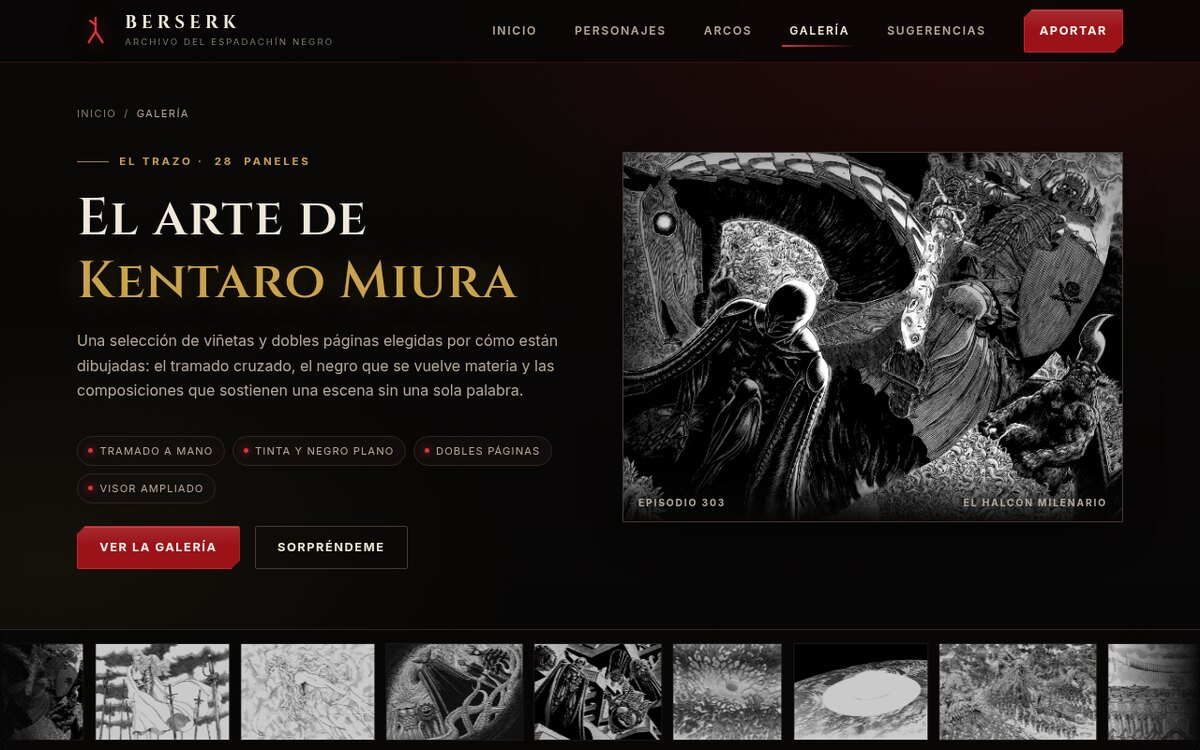
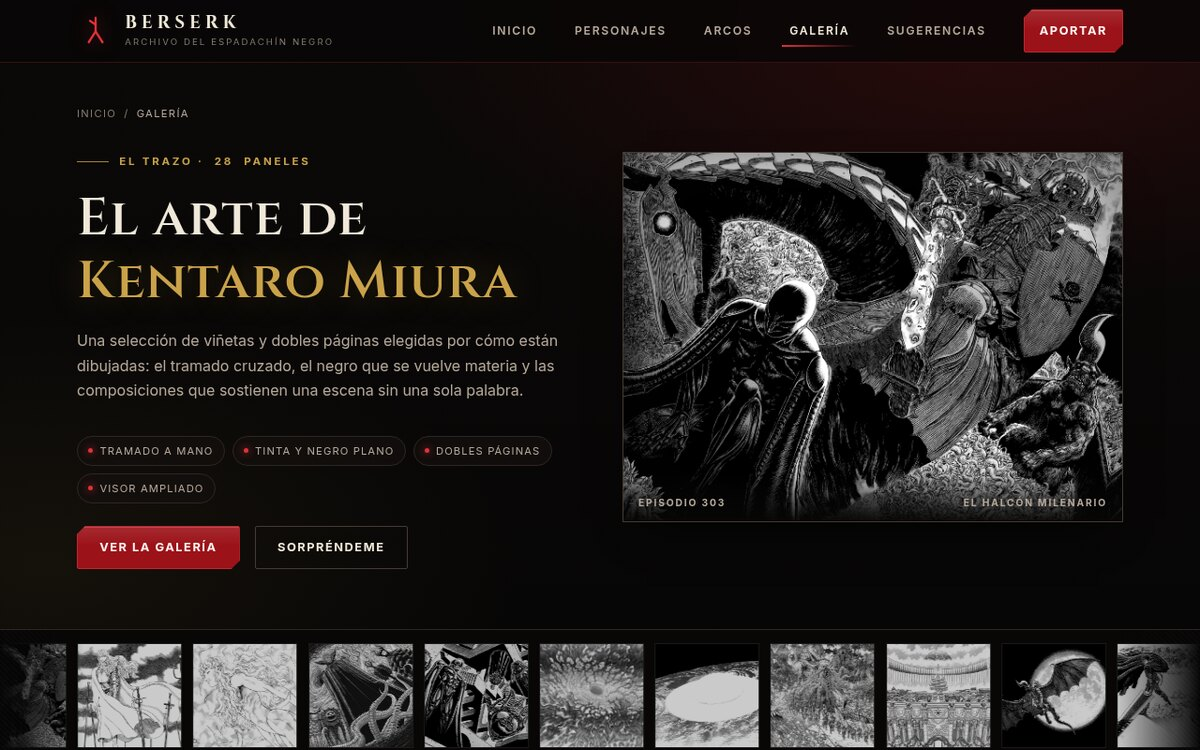
Unificar la galería en tarjetas del mismo tamaño
- Cambia la mampostería por una rejilla de tarjetas iguales (4 → 1
  columnas) con marco 4:3, margen interior y el panel completo
- Añade pastillas pequeñas de episodio y arco bajo cada lámina, al
  estilo de las insignias del catálogo de personajes
- Iguala las miniaturas de la cinta y el avance de portada a cuadros
  uniformes con recorte centrado
- Actualiza el README (rejilla uniforme, capturas nuevas)

Changed region(s): [[0.0, 0.8587, 1.0, 1.0]]

diff --git a/assets/css/estilos.css b/assets/css/estilos.css
@@ -1207,8 +1207,9 @@ strong { color: #fff8ec; }
 .emi-cinta:focus-within .emi-cinta__pista { animation-play-state: paused; }
 
 .emi-cinta__pista img {
-  height: 104px;
-  width: auto;
+  width: 112px;
+  height: 112px;
+  object-fit: cover;
   margin-right: .7rem;
   border: 1px solid var(--emi-borde);
   filter: grayscale(1) brightness(.78) contrast(1.05);
@@ -1272,28 +1273,41 @@ strong { color: #fff8ec; }
   opacity: .7;
 }
 
-/* Rejilla tipo mampostería: cada lámina conserva su proporción. */
-.emi-rejilla-paneles { column-count: 4; column-gap: 1.1rem; }
+/* Rejilla uniforme: todas las láminas miden lo mismo, con el mismo margen. */
+.emi-rejilla-paneles {
+  display: grid;
+  grid-template-columns: repeat(4, minmax(0, 1fr));
+  gap: 1.25rem;
+}
 
 .emi-lamina {
   position: relative;
-  break-inside: avoid;
-  margin: 0 0 1.1rem;
+  display: flex;
+  height: 100%;
   border: 1px solid var(--emi-borde);
-  background: #0b0908;
+  border-radius: var(--emi-radio);
+  background: linear-gradient(165deg, var(--emi-superficie), #0a0807);
+  overflow: hidden;
+  transition: transform var(--emi-transicion), border-color var(--emi-transicion),
+              box-shadow var(--emi-transicion), opacity 520ms ease;
 }
 
-.js .emi-lamina {
-  opacity: 0;
-  transform: translateY(16px);
-  transition: opacity 520ms ease, transform 520ms ease;
+.emi-lamina:hover,
+.emi-lamina:focus-within {
+  transform: translateY(-4px);
+  border-color: rgba(224, 49, 58, .55);
+  box-shadow: var(--emi-sombra);
 }
+
+.js .emi-lamina { opacity: 0; transform: translateY(16px); }
 
 .js .emi-lamina.is-visible { opacity: 1; transform: none; }
 
 .emi-lamina__boton {
-  display: block;
+  display: flex;
+  flex-direction: column;
   width: 100%;
+  height: 100%;
   padding: 0;
   border: 0;
   background: none;
@@ -1302,12 +1316,21 @@ strong { color: #fff8ec; }
   cursor: zoom-in;
 }
 
-.emi-lamina__media { position: relative; overflow: hidden; }
+/* Marco fijo 4:3 con margen interior: el panel entra completo, sin recortes. */
+.emi-lamina__media {
+  position: relative;
+  aspect-ratio: 4 / 3;
+  padding: .45rem;
+  overflow: hidden;
+  background: #080706;
+}
 
 .emi-lamina__media img {
   display: block;
   width: 100%;
-  height: auto;
+  height: 100%;
+  object-fit: contain;
+  object-position: center;
   transition: transform 700ms cubic-bezier(.16, .84, .28, 1), filter 400ms ease;
 }
 
@@ -1341,27 +1364,53 @@ strong { color: #fff8ec; }
 }
 
 .emi-lamina__cuerpo {
-  padding: .7rem .85rem .85rem;
+  display: flex;
+  flex-direction: column;
+  flex: 1;
+  gap: .55rem;
+  padding: .8rem .9rem 1rem;
   border-top: 1px solid var(--emi-borde);
 }
 
 .emi-lamina__meta {
   display: flex;
-  justify-content: space-between;
-  gap: .5rem;
-  font-size: .6rem;
+  flex-wrap: wrap;
+  gap: .3rem;
+  margin: 0;
+}
+
+/* Pastillas pequeñas: episodio y arco, como las insignias del catálogo. */
+.emi-pastilla {
+  display: inline-flex;
+  align-items: center;
+  padding: .2rem .48rem;
+  border: 1px solid var(--emi-borde-claro);
+  border-radius: 999px;
+  background: rgba(7, 6, 6, .55);
+  font-size: .58rem;
   font-weight: 700;
-  letter-spacing: .16em;
+  letter-spacing: .1em;
   text-transform: uppercase;
-  color: var(--emi-ceniza-oscura);
+  color: var(--emi-ceniza);
+}
+
+.emi-pastilla--arco {
+  border-color: rgba(201, 162, 74, .45);
+  color: var(--emi-oro);
 }
 
 .emi-lamina__titulo {
-  margin: .35rem 0 0;
+  margin: 0;
   font-family: var(--emi-display);
-  font-size: 1rem;
+  font-size: 1.02rem;
   line-height: 1.25;
   color: var(--emi-hueso);
+  /* Dos líneas siempre: todas las tarjetas quedan a la misma altura. */
+  display: -webkit-box;
+  -webkit-line-clamp: 2;
+  -webkit-box-orient: vertical;
+  overflow: hidden;
+  min-height: 2.5em;
 }
 
 .emi-lamina__boton:focus-visible { outline: 2px solid var(--emi-oro); outline-offset: -2px; }
@@ -1396,6 +1445,7 @@ strong { color: #fff8ec; }
 .emi-avance {
   position: relative;
   display: block;
+  aspect-ratio: 4 / 3;
   overflow: hidden;
   border: 1px solid var(--emi-borde);
   background: #0b0908;
@@ -1404,7 +1454,8 @@ strong { color: #fff8ec; }
 .emi-avance img {
   display: block;
   width: 100%;
-  height: auto;
+  height: 100%;
+  object-fit: cover;
   filter: grayscale(1) contrast(1.05);
   transition: transform 650ms cubic-bezier(.16, .84, .28, 1), filter 400ms ease;
 }
@@ -1497,17 +1548,17 @@ strong { color: #fff8ec; }
 
 /* Adaptación de la galería. */
 @media (max-width: 1199.98px) {
-  .emi-rejilla-paneles { column-count: 3; }
+  .emi-rejilla-paneles { grid-template-columns: repeat(3, minmax(0, 1fr)); }
 }
 
 @media (max-width: 767.98px) {
-  .emi-rejilla-paneles { column-count: 2; }
-  .emi-cinta__pista img { height: 82px; }
+  .emi-rejilla-paneles { grid-template-columns: repeat(2, minmax(0, 1fr)); }
+  .emi-cinta__pista img { width: 88px; height: 88px; }
   .emi-galeria-hero__lamina { margin-top: .5rem; }
 }
 
 @media (max-width: 479.98px) {
-  .emi-rejilla-paneles { column-count: 1; }
+  .emi-rejilla-paneles { grid-template-columns: 1fr; }
   .emi-toolbar-galeria { align-items: stretch; }
 }
 

diff --git a/assets/js/galeria.js b/assets/js/galeria.js
@@ -1,5 +1,5 @@
 /* ==========================================================================
-   GALERÍA DE PANELES — filtros, mampostería, visor y enlaces directos
+   GALERÍA DE PANELES — filtros, rejilla uniforme, visor y enlaces directos
    --------------------------------------------------------------------------
    Todo el contenido sale de assets/js/paneles.js. Este archivo solo se
    encarga de pintar la rejilla, mover el visor y respetar reduce-motion.
@@ -72,7 +72,7 @@
     var imagen = document.createElement("img");
     imagen.src = panel.archivo + "-min.webp";
     imagen.srcset = panel.archivo + "-min.webp 520w, " + panel.archivo + ".webp 1100w";
-    imagen.sizes = "(min-width: 1200px) 23vw, (min-width: 768px) 31vw, 46vw";
+    imagen.sizes = "(min-width: 1200px) 23vw, (min-width: 768px) 31vw, (min-width: 480px) 46vw, 92vw";
     imagen.width = panel.ancho;
     imagen.height = panel.alto;
     imagen.alt = panel.alt;
@@ -93,9 +93,11 @@
     meta.className = "emi-lamina__meta";
 
     var episodio = document.createElement("span");
+    episodio.className = "emi-pastilla";
     episodio.textContent = etiquetaEpisodio(panel);
 
     var arco = document.createElement("span");
+    arco.className = "emi-pastilla emi-pastilla--arco";
     arco.textContent = nombreArco(panel.arco);
 
     meta.append(episodio, arco);
@@ -218,10 +220,10 @@
   function pintarCinta() {
     if (!cinta) return;
 
+    /* Miniaturas cuadradas: la cinta queda regular pase lo que pase. */
     var piezas = datos.paneles.slice(0, 14).map(function (panel) {
-      var alto = Math.round((520 * panel.alto) / panel.ancho);
-      return '<img src="' + panel.archivo + '-min.webp" alt="" width="520" height="' +
-        alto + '" loading="lazy" decoding="async">';
+      return '<img src="' + panel.archivo + '-min.webp" alt="" width="160" height="160"' +
+        ' loading="lazy" decoding="async">';
     }).join("");
 
     /* Dos copias: la animación desplaza exactamente la mitad de la pista. */

diff --git a/README.md b/README.md
@@ -179,7 +179,7 @@ en el carrusel, en el bloque de fuentes externas y en el pie de las cinco págin
 ### 🖼 Galería de 28 paneles
 
 Una página aparte dedicada solo al dibujo: viñetas y dobles páginas de Kentaro Miura con filtros por
-arco, mampostería, visor ampliado y enlaces directos. Se detalla más abajo, en
+arco, rejilla de tarjetas iguales, visor ampliado y enlaces directos. Se detalla más abajo, en
 [Galería de paneles](#galeria).
 
 ---
@@ -196,7 +196,7 @@ episodio, su arco y un comentario breve sobre cómo está resuelta.
 | Portada de la galería | Rejilla filtrada por arcos |
 | :--: | :--: |
 | <img src="assets/readme/preview-galeria.jpg" alt="Portada de la galería con una doble página de Femto y el Caballero Calavera" width="100%"/> | <img src="assets/readme/preview-rejilla.jpg" alt="Rejilla de paneles en cuatro columnas con filtros por arco" width="100%"/> |
-| **Lámina de apertura** con zoom lento y cinta de miniaturas | **Mampostería de 4 → 1 columnas** con filtros y contador en vivo |
+| **Lámina de apertura** con zoom lento y cinta de miniaturas | **Tarjetas iguales de 4 → 1 columnas** con filtros y contador en vivo |
 
 <img src="assets/readme/preview-visor.jpg" alt="Panel abierto en el visor ampliado con su descripción y el enlace a la fuente" width="92%"/>
 
@@ -211,7 +211,7 @@ enlace al archivo original de la wiki.
 |---|---|
 | 🗃 **Datos** | `assets/js/paneles.js` guarda los 28 paneles: id, título, episodio, arco, medidas, texto alternativo, comentario y fuente |
 | 🏷 **Filtros** | Un botón por arco con su recuento; «Todos» vuelve a la colección completa y el estado vacío ofrece limpiar el filtro |
-| 🧱 **Mampostería** | `column-count` de 4 a 1 columnas según el ancho; cada lámina conserva su proporción real, sin recortes |
+| 🧱 **Rejilla uniforme** | `grid` de 4 a 1 columnas; todas las tarjetas miden lo mismo (marco 4:3 con margen interior) y el panel entra completo, sin recortes |
 | 🔍 **Visor** | Modal de Bootstrap con la imagen a tamaño completo, anterior y siguiente, contador `n / 28` y enlace al archivo de origen |
 | ⌨ **Teclado** | `←` y `→` cambian de panel con el visor abierto; `Esc` lo cierra; el foco queda atrapado en el modal |
 | 🔗 **Enlace directo** | `galeria.html?panel=eclipse` abre esa lámina al cargar; al cerrar, la URL se limpia sola |
@@ -334,7 +334,7 @@ y el tema oscuro nativo con `data-bs-theme="dark"`.
 | Capa | Tecnología | Detalle |
 | :-- | :-- | :-- |
 | Estructura | **HTML5 semántico** | `main`, `section`, `article`, `nav`, `footer`, encabezados sin saltos |
-| Estilos | **CSS3** | 18 bloques comentados, variables `--emi-*`, `clamp()`, `aspect-ratio`, `column-count`, `prefers-reduced-motion` |
+| Estilos | **CSS3** | 18 bloques comentados, variables `--emi-*`, `clamp()`, `aspect-ratio`, `grid`, `prefers-reduced-motion` |
 | Interfaz | **Bootstrap 5.3.3** | CSS y bundle JS vendorizados en `assets/vendor/` |
 | Lógica | **JavaScript ES6** | Siete módulos IIFE, sin transpilación ni bundler |
 | Datos | **`datos.js` + `paneles.js`** | `window.BERSERK` con personajes, facciones, estados y arcos; `window.PANELES` con la galería |
@@ -367,7 +367,7 @@ y el tema oscuro nativo con `data-bs-theme="dark"`.
 │   │   ├── catalogo.js           Filtros, tarjetas, paginación, ficha y panel
 │   │   ├── arcos.js              Modal de arcos
 │   │   ├── paneles.js            Los 28 paneles de la galería (fuente única)
-│   │   ├── galeria.js            Filtros, mampostería, visor y enlace directo
+│   │   ├── galeria.js            Filtros, rejilla, visor y enlace directo
 │   │   └── formulario.js         Validación, contador y confirmación
 │   ├── img/
 │   │   ├── personajes/           30 retratos (400 px de ancho)
